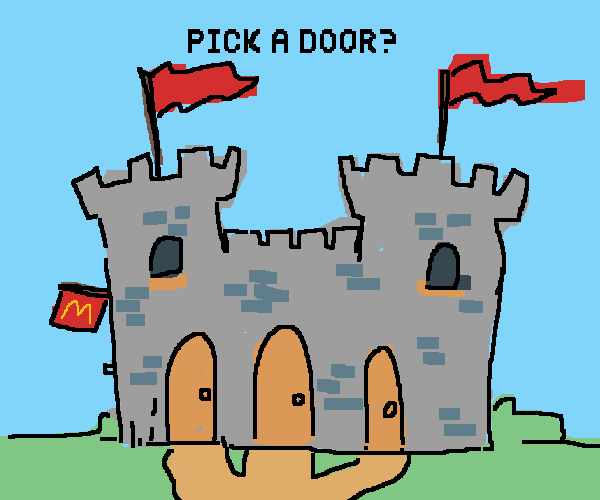
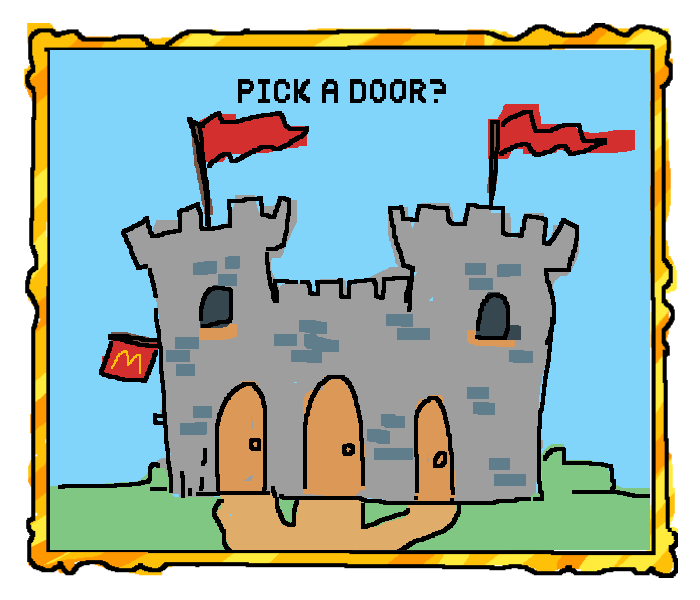
fix frames, add style

diff --git a/index.html b/index.html
@@ -21,8 +21,7 @@
 
 <body>
     <header>
-        <img src="./scenes/title.png" alt="game header"/>
-
+        <a href="./index.html"> <img src="./scenes/title.png" alt="game header"/> </a>
     </header>
 
     <article>
@@ -32,19 +31,25 @@
                 about where to go and what to do in order to get the gold you seek to take.
             </p>
         <H2>-Controls-</H2>
-            <p id="controls">click...</p>
+        <ul id="click">
+            <li> click...</li>
+        </ul>
         <img src="./scenes/start.png" alt="start button" usemap="#scene_map"/>
 
 
         <map name="scene_map">
-           <area shape="rect" coords="134,182,475,296" href="./html/bedroom.html" alt="to the bedroom" />
+           <area shape="rect" coords="171, 224,531, 354" href="./html/bedroom.html" alt="to the bedroom" />
         </map>
+        <img id="coin" src="./scenes/coin.png" alt="coin">
         
     </article>
     <footer>
         <p>Play other games made by my friends here! </p>
-        <p>rylan link</p>
-        <p>gordon link</p>
+        <ul>
+            <p>rylan link</p>
+            <p>gordon link</p>
+        </ul>
+        
 
 
     </footer>

diff --git a/css/styles1.css b/css/styles1.css
@@ -22,6 +22,8 @@
     width: 950px;
      box-shadow: rgba(0, 12, 44, 0.4) 15px 0px 35px,
                rgba(0, 12, 44, 0.4) -15px 0px 35px;
+   font-family: "grape";
+   
  }
 
  header {    
@@ -44,25 +46,45 @@ h2 {
    font-size: 2em;
    font-family: "grape";
  }
- body img, h2, h1, a {
+ img, h2, h1, a {
     text-align: center;
     display: block;
     margin-left: auto;
     margin-right: auto;
     line-height: 200%;
  }
- p#controls {
-    margin-left: 30%;
- }
+ 
+ 
  p {
     margin-left: 5%;
     margin-right: 5%;
+    font-size: 1.5em;
+ }
+ 
+ article>p {
+   color: rgb(107, 64, 10);
  }
  footer {
     display: block;
     background-color: #8ed3f9;
-    margin-top: 5%;
+    margin-top: -25px;
     padding-top: 10px;
     padding-bottom: 10px;
+    text-align: center;
  }
+ article {
+   clear: both;
+   content: '';
+   display: table;
+ }
+article>img#coin {
+   float: right ;
+   width: 20%;
+}
+ul#click{
+   padding-left: 460px;
+   list-style-image: url(../scenes/Leftclick_icon.png);
+   font-size: 25px;
+}
+ 
  

diff --git a/html/Chestroom.html b/html/Chestroom.html
@@ -22,16 +22,16 @@
 
 <body>
     <header>
-        <img src="../scenes/title.png" alt="game header"/>
+        <a href="../index.html"> <img src="../scenes/title.png" alt="game header"/> </a>
     </header>
     <article>
         <h2>You made it to the chest room!</h2>
         <img src="../scenes/chests.png" alt="pick a chest" usemap="#scene_map">
         
           <map name="scene_map">
-           <area shape="rect" coords="186, 163, 346, 302" href="./robbed.html" alt="win" />
-           <area shape="rect" coords="135, 312, 251, 427" href="./robbed.html" alt="win" />
-           <area shape="rect" coords="291, 316, 391, 430" href="./mimic.html" alt="loose" />
+           <area shape="rect" coords="233, 214, 399, 354" href="./robbed.html" alt="win" />
+           <area shape="rect" coords="176, 361, 305, 465" href="./robbed.html" alt="win" />
+           <area shape="rect" coords="337, 358, 442, 482" href="./mimic.html" alt="loose" />
         </map>
     </article>
     <footer>

diff --git a/html/Castle.html b/html/Castle.html
@@ -23,7 +23,7 @@
 
 <body>
     <header>
-        <img src="../scenes/title.png" alt="game header"/>
+        <a href="../index.html"> <img src="../scenes/title.png" alt="game header"/> </a>
 
     </header>
 
@@ -32,9 +32,9 @@
         <img src="../scenes/castle.png" alt="castle doors" usemap="#scene_map"/>
 
         <map name="scene_map">
-           <area shape="rect" coords="165, 332, 223, 437" href="./Chestroom.html" alt="chestroom" />
-           <area shape="rect" coords="248, 323, 319, 446" href="./chestroom.html" alt="chestroom" />
-           <area shape="rect" coords="356, 341, 410, 448" href="./fireroom.html" alt="fire" />
+           <area shape="rect" coords="214, 374, 274, 488" href="./Chestroom.html" alt="chestroom" />
+           <area shape="rect" coords="302, 370, 372, 491" href="./chestroom.html" alt="chestroom" />
+           <area shape="rect" coords="407, 392, 464, 502" href="./fireroom.html" alt="fire" />
         </map>
         
     </article>

diff --git a/html/bedroom.html b/html/bedroom.html
@@ -22,19 +22,21 @@
 
 <body>
     <header>
-        <img src="../scenes/title.png" alt="game header"/>
+        <a href="../index.html"> <img src="../scenes/title.png" alt="game header"/> </a>
 
     </header>
 
     <article>
-        <h1>You have Woken up,
+        <h2>
+            You have Woken up,
             what will you do next?
-        </h1>
+        </h2>
+
     <img src="../scenes/bedroom.png" alt="first decision" usemap="#scene_map"/>
         
     <map name="scene_map">
-            <area shape="rect" coords="13, 332, 354, 455" href="../html/sleep.html" alt="to sleep" />
-            <area shape="rect" coords="354, 55, 579, 449" href="../html/map.html" alt="where go?" />
+            <area shape="rect" coords="67, 379, 396, 506" href="../html/sleep.html" alt="to sleep" />
+            <area shape="rect" coords="410, 102,623, 507" href="../html/map.html" alt="where go?" />
             </map>
 
 

diff --git a/html/map.html b/html/map.html
@@ -23,7 +23,7 @@
 
 <body>
     <header>
-        <img src="../scenes/title.png" alt="game header"/>
+        <a href="../index.html"> <img src="../scenes/title.png" alt="game header"/> </a>
 
     </header>
 
@@ -34,8 +34,8 @@
            <h2>*click the sign*</h2>     
 
             <map name="scene_map">
-           <area shape="rect" coords="177, 375, 255, 467" href="../html/Castle.html" alt="to the castle" />
-           <area shape="rect" coords="269, 401, 365, 468" href="../html/cave.html" alt="ah scary" />
+           <area shape="rect" coords="230, 420, 305, 525" href="../html/Castle.html" alt="to the castle" />
+           <area shape="rect" coords="319, 452, 415, 518" href="../html/cave.html" alt="ah scary" />
         </map>
 
     </article>

diff --git a/html/mimic.html b/html/mimic.html
@@ -22,14 +22,14 @@
 
 <body>
     <header>
-        <img src="../scenes/title.png" alt="game header"/>
+        <a href="../index.html"> <img src="../scenes/title.png" alt="game header"/> </a>
     </header>
     <article>
         <h2>Pet the mimic?</h2>
         <img src="../scenes/mimic.png" alt="Pet the mimic?" usemap="#scene_map">
         
           <map name="scene_map">
-             <area shape="rect" coords="140, 43, 396, 459" href="./you_died.html" alt="you died" />
+             <area shape="rect" coords="190, 88, 448, 507" href="./you_died.html" alt="you died" />
         </map>
     </article>
     <footer>

diff --git a/html/fireroom.html b/html/fireroom.html
@@ -22,14 +22,14 @@
 
 <body>
     <header>
-        <img src="../scenes/title.png" alt="game header"/>
+        <a href="../index.html"> <img src="../scenes/title.png" alt="game header"/> </a>
     </header>
     <article>
         <h2>Explore deeper?</h2>
         <img src="../scenes/fire room.png" alt="fire" usemap="#scene_map">
         
           <map name="scene_map">
-             <area shape="rect" coords="140, 43, 396, 459" href="./you_died.html" alt="you died" />
+             <area shape="rect" coords="55, 54, 648, 544" href="./you_died.html" alt="you died" />
         </map>
     </article>
     <footer>

diff --git a/html/robbed.html b/html/robbed.html
@@ -22,15 +22,13 @@
 
 <body>
     <header>
-        <img src="../scenes/title.png" alt="game header"/>
+        <a href="../index.html"> <img src="../scenes/title.png" alt="game header"/> </a>
     </header>
     <article>
         <h2>You robbed the king!</h2>
-        <img src="../scenes/gold.png" alt="you got gold" usemap="#scene_map">
+        <a href="../index.html">  RESTART?  </a>
+        <img src="../scenes/gold.png" alt="you got gold" >
         
-          <map name="scene_map">
-           
-        </map>
     </article>
     <footer>
         <p>Play other games made by my friends here! </p>

diff --git a/html/cave.html b/html/cave.html
@@ -23,7 +23,7 @@
 
 <body>
     <header>
-        <img src="../scenes/title.png" alt="game header" />
+        <a href="../index.html"> <img src="../scenes/title.png" alt="game header"/> </a>
         
     </header>
 
@@ -34,7 +34,7 @@
         <img src="../scenes/cave.png" alt="cave" usemap="#scene_map" />
 
         <map name="scene_map">
-           <area shape="circle" coords="291, 288, 140" href="./you_died.html" alt="you died" />
+           <area shape="circle" coords="349, 345, 140" href="./you_died.html" alt="you died" />
         </map>
 
     </article>

diff --git a/html/sleep.html b/html/sleep.html
@@ -22,7 +22,7 @@
 
 <body>
     <header>
-        <img src="../scenes/title.png" alt="game header"/>
+        <a href="../index.html"> <img src="../scenes/title.png" alt="game header"/> </a>
 
     </header>
 
@@ -31,7 +31,7 @@
         <img src="../scenes/sleep.png" alt="mi mi mi mi mi" usemap="#scene_map"/>
         
 <map name="scene_map">
-           <area shape="rect" coords="16, 33, 220, 140" href="./bedroom.html" alt="to the bedroom" />
+           <area shape="rect" coords="87, 106, 256, 180" href="./bedroom.html" alt="to the bedroom" />
         </map>
 
 
